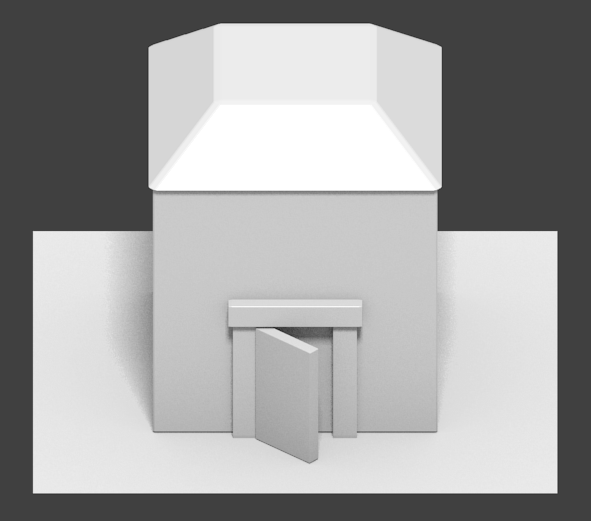
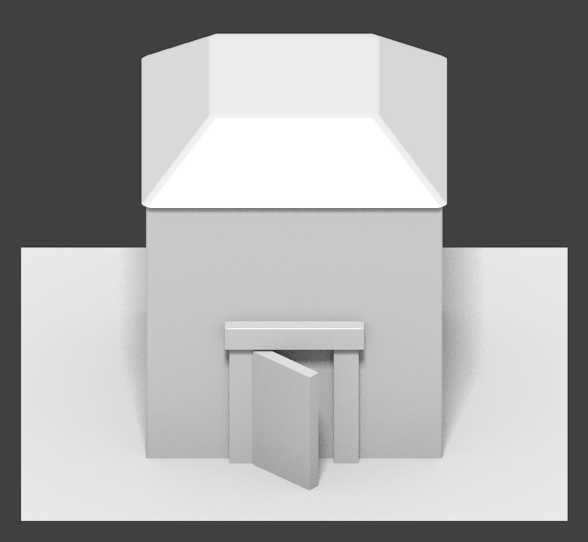
Used (and updated) mrbeast's .blend to more clearly demonstrate lighting direction

Changed region(s): [[0.0306, 0.0307, 0.9796, 0.9827]]

diff --git a/source/docs/styleguide.rst b/source/docs/styleguide.rst
@@ -55,9 +55,10 @@ tiles, that's wrong.
 .. image:: ../static/images/chest_perspective.png
    :alt: Chest perspective example
 
-The following image is a 3d rendering demonstrating orthographic
-projection.  For examples of actual proportions, see existing body of
-pixel art.
+The following image is a 3d rendering
+(`source <_static/images/perspective.blend`_)
+demonstrating orthographic projection.  For examples of actual
+proportions, see existing body of pixel art.
 
 .. image:: ../static/images/60perspective.png
    :alt: 60 degree camera perspective example
@@ -88,6 +89,12 @@ mostly center.
 .. image:: ../static/images/sunpoint.gif
    :alt: Lighting example
 
+An example scene in blender with a sun light pointing in the
+appropriate location:
+
+.. image:: ../static/images/lighting_direction.png
+   :alt: Lighting blender screenshot example
+
 Your light to dark color ramps should *never* all have the same hue.
 Vary the hue and saturation a bit as you go from light to dark, or
 your objects will look flat.
@@ -117,6 +124,7 @@ useful in producing matching assets.
 
 .. image:: ../static/images/colors.png
    :alt: Suggested palette
+
 
 Outlines
 --------
